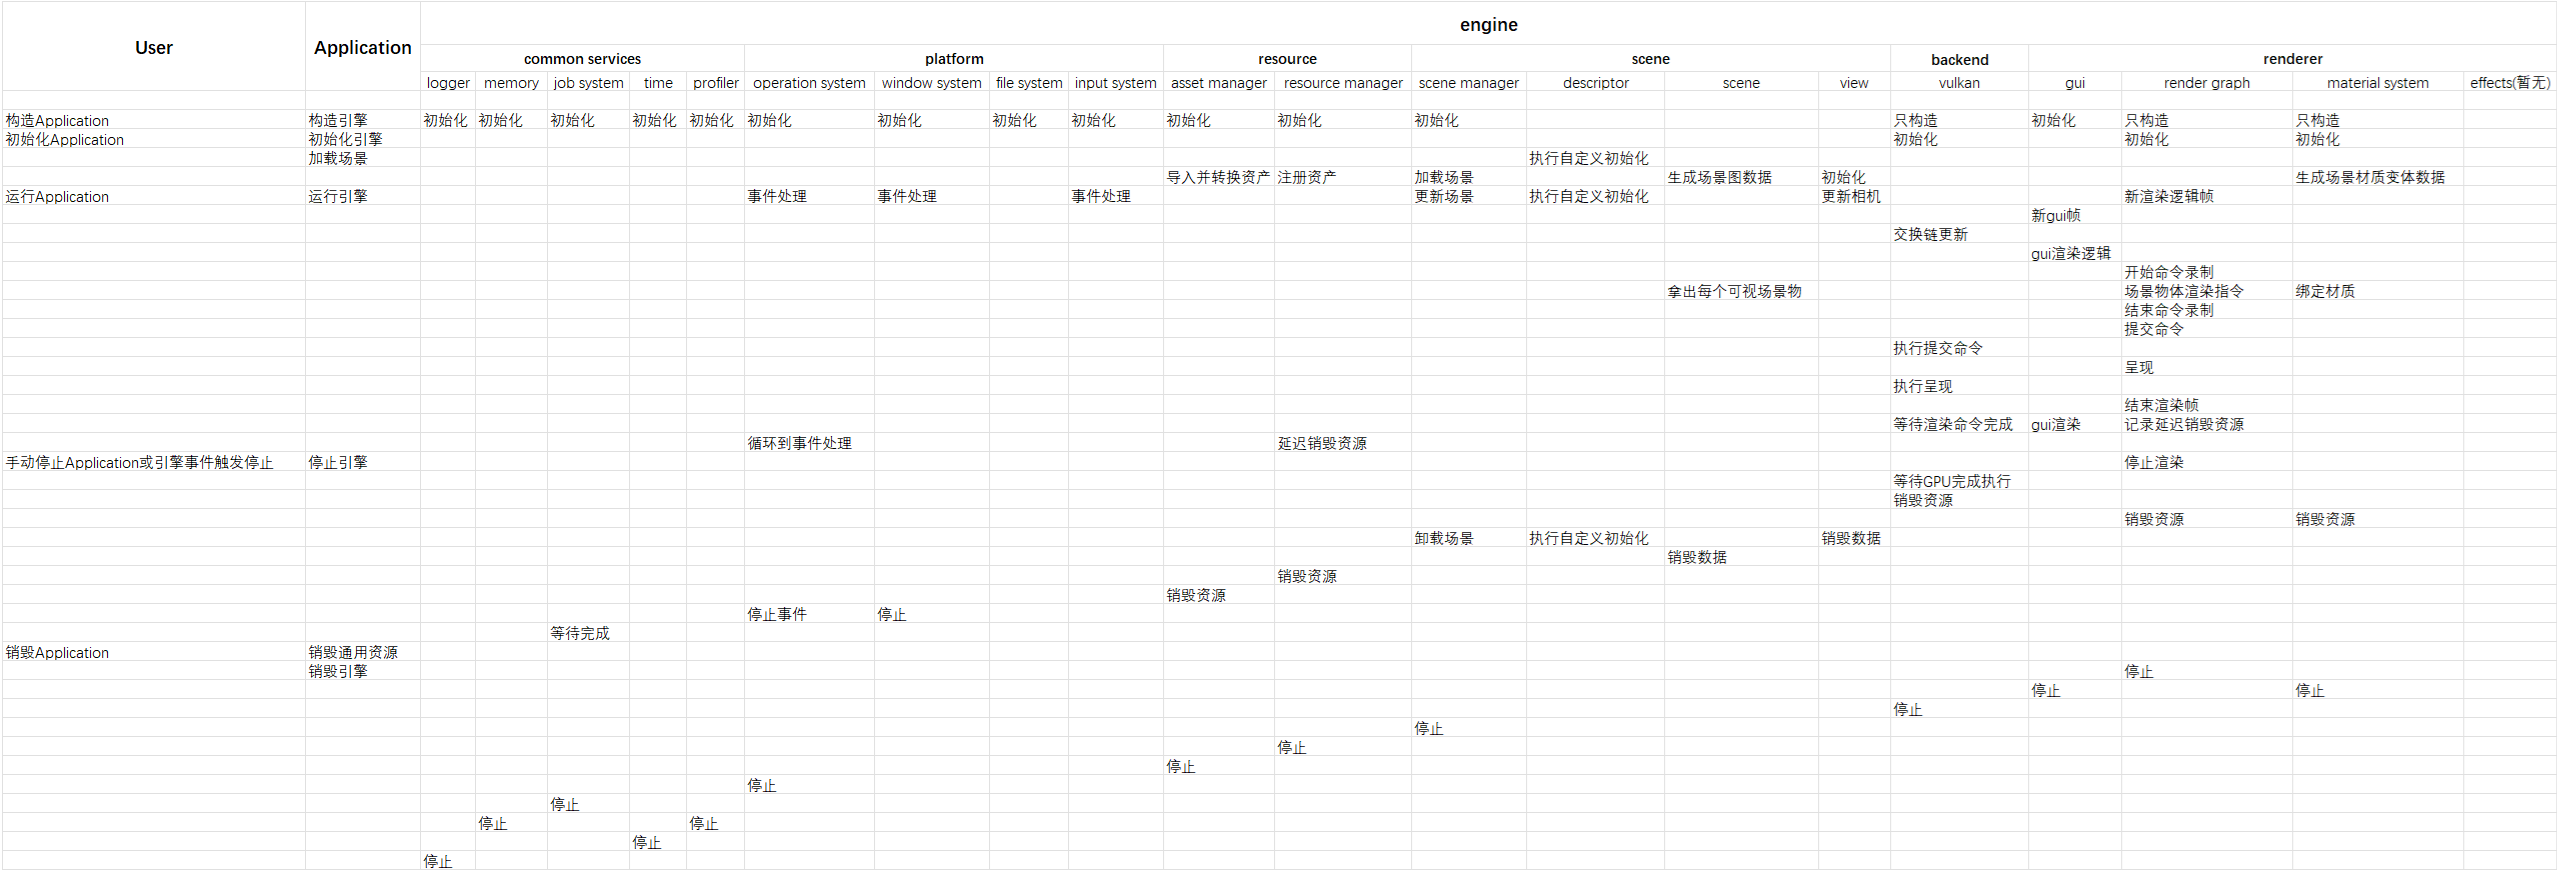
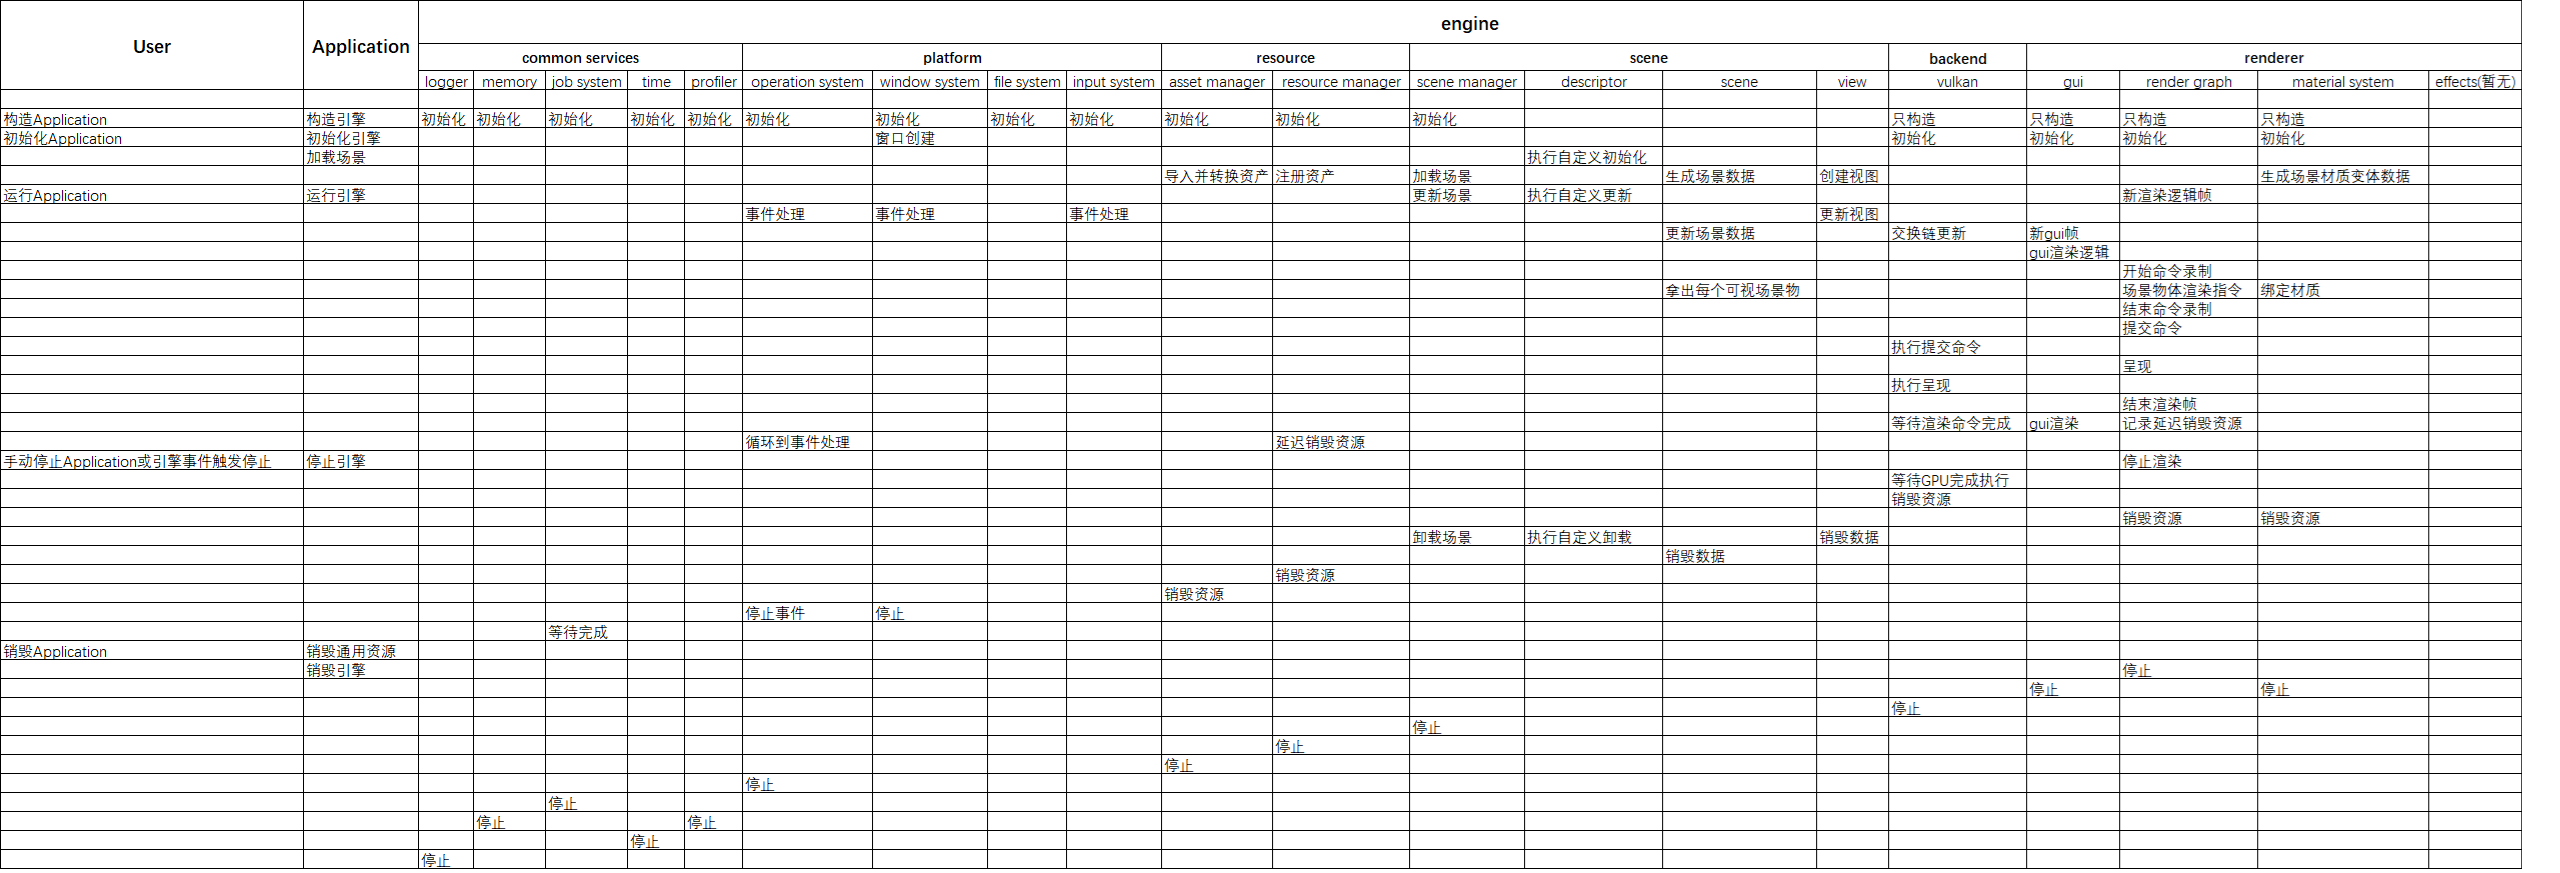
update architecture atts

Changed region(s): [[0.0, 0.0, 1.0, 1.0], [0.0312, 0.0309, 0.0625, 0.0619]]

diff --git a/engine/source/include/pd/rendering/layer/layer.hpp b/engine/source/include/pd/rendering/layer/layer.hpp
@@ -7,7 +7,8 @@ class ILayer {
  public:
   ILayer() noexcept = default;
   virtual ~ILayer() = default;
-  MOVABLE_ONLY(ILayer);
+  DELETE_COPY(ILayer);
+  DEFAULT_MOVABLE(ILayer);
 
  protected:
   virtual cstr name() const noexcept { return "base layer"; }
